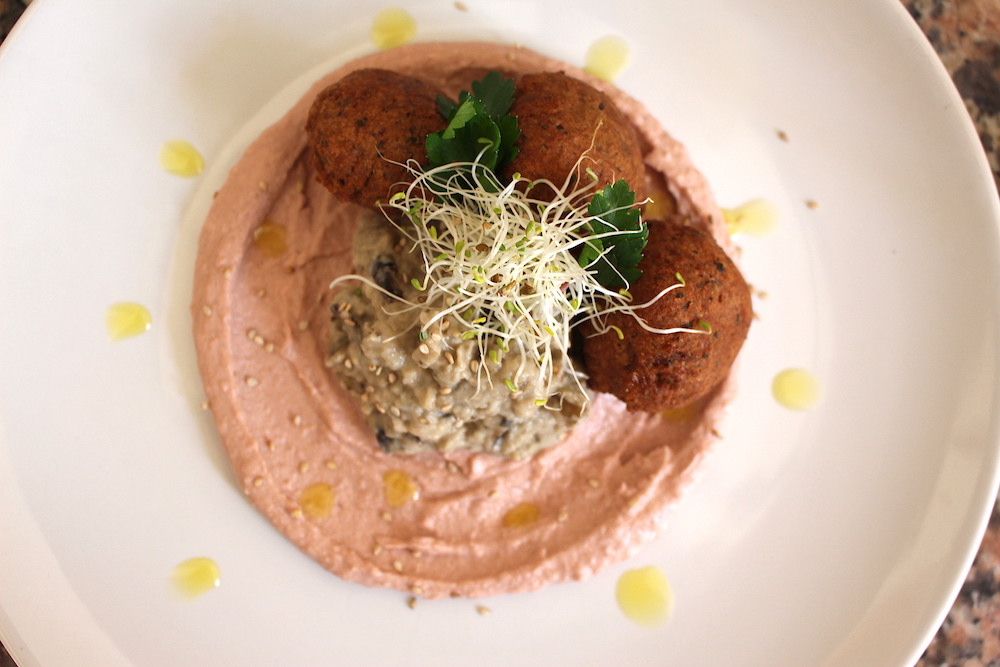
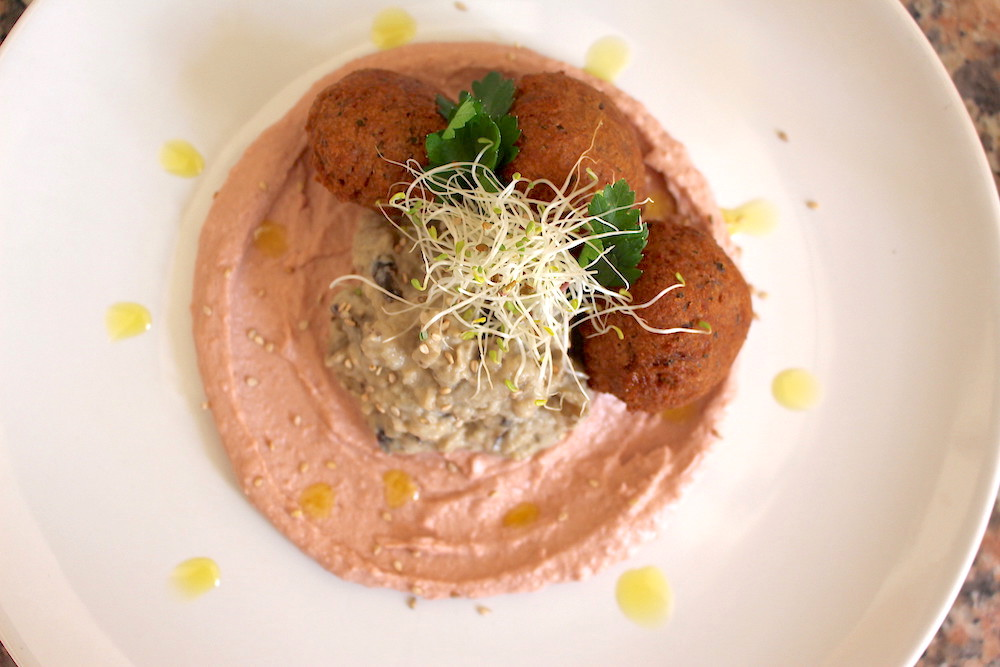
update

diff --git a/work.html b/work.html
@@ -197,7 +197,7 @@
 													<div class="hoverbox ef-slide-left light">
 														
 														<!-- hb_front -->
-														<div class="hb_front"><img src="assets/img/mundovegano%202019-11-05%20a%20las%2019.14.52.png" alt=""/>
+														<div class="hb_front"><img src="assets/img/mundovegano%202019-11-05%20a%20las%2019.14.52.jpeg" alt=""/>
 														</div><!-- End / hb_front -->
 														
 														
